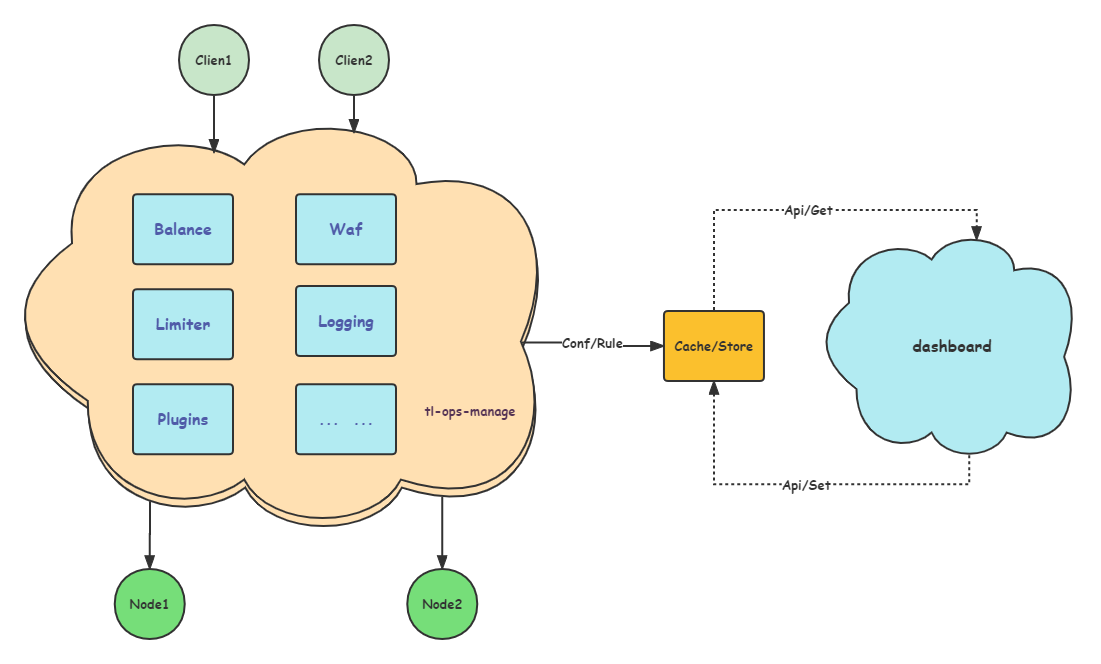
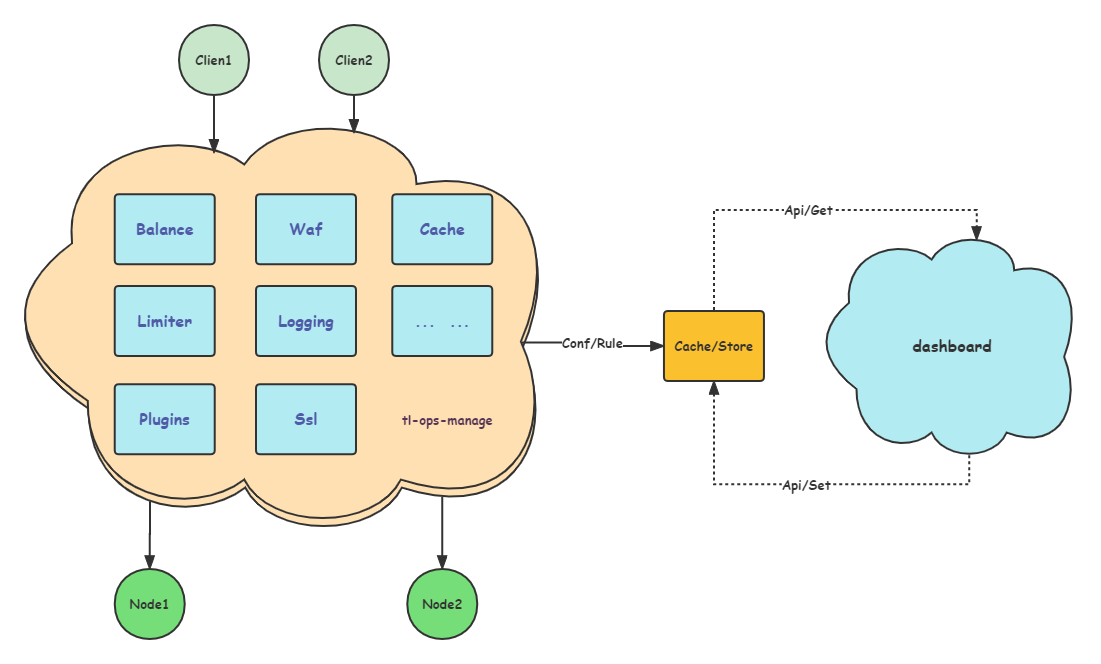
doc

Changed region(s): [[0.0926, 0.2711, 0.4632, 0.5422], [0.0926, 0.5723, 0.2779, 0.6928], [0.3088, 0.5723, 0.4632, 0.6928]]

diff --git a/doc/README_EN.md b/doc/README_EN.md
@@ -2,11 +2,11 @@
 
 [![](https://img.shields.io/badge/base-openresty-blue?style=flat-square)](https://openresty.org/cn/) ![Build](https://img.shields.io/badge/build-passing-green?style=flat-square) ![Version](https://img.shields.io/github/v/tag/iamtsm/tl-ops-manage?color=green&label=Version&style=flat-square) ![License](https://img.shields.io/badge/License-Apache%202.0-blue?style=flat-square)
 
-API gateway based on openresty, supports load balancing, registration discovery, health check, service fuse, service current limit, waf filtering, black and white list, dynamic configuration, data statistics, data display
+API gateway based on openresty, supports load balancing, health check, service fuse, service current limit, waf filtering, black and white list, dynamic SSL certificate, custom plug-in, multi-level cache, visual management, dynamic configuration, data statistics, data display
 
 ---
 
-<div align=center><img src="doc/tl-ops-manage.png"/></div>
+<div align=center><img src="tl-ops-manage.png"/></div>
 
 Experience demo : https://tlops.iamtsm.cn/tlopsmanage/tl_ops_web_index.html
 
@@ -15,11 +15,11 @@ QQ : 624214498, welcome to submit PR, we will continue to update ....
 
 <a href="https://github.com/iamtsm/tl-ops-manage/blob/main/README.md"> 中文翻译 </a>
 
-<div align=center><img src="tl-ops-manage.png"/></div>
+
 
 # Detailed documentation
 
-[tl-ops-manage-documentation](https://book.iamtsm.cn)
+- [x] [tl-ops-manage-documentation](https://book.iamtsm.cn)
 
 # Features
 

diff --git a/README.md b/README.md
@@ -2,7 +2,7 @@
 
 [![](https://img.shields.io/badge/base-openresty-blue?style=flat-square)](https://openresty.org/cn/) ![Build](https://img.shields.io/badge/build-passing-green?style=flat-square) ![Version](https://img.shields.io/github/v/tag/iamtsm/tl-ops-manage?color=green&label=Version&style=flat-square) ![License](https://img.shields.io/badge/License-Apache%202.0-blue?style=flat-square)
 
-基于openresty的API网关，支持负载均衡，注册发现，健康检查，服务熔断，服务限流，waf过滤，黑白名单，动态配置，数据统计，数据展示
+基于openresty的API网关，支持负载均衡，健康检查，服务熔断，服务限流，waf过滤，黑白名单，动态SSL证书，自定义插件，多级缓存，可视化管理，动态配置，数据统计，数据展示
 
 ---
 
@@ -22,7 +22,7 @@ qq交流群 : 624214498，欢迎有兴趣的童鞋提交PR, 持续更新中 ....
 
 # 详细文档
 
-[tl-ops-manage详细文档](https://book.iamtsm.cn)
+- [x] [tl-ops-manage详细文档](https://book.iamtsm.cn)
 
 
 # 特性
